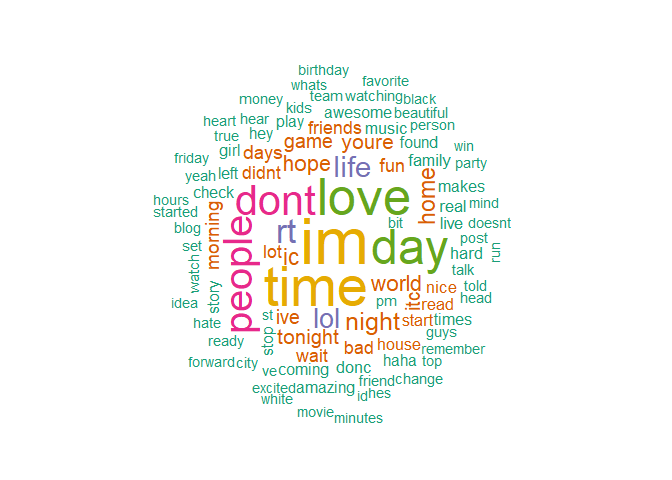
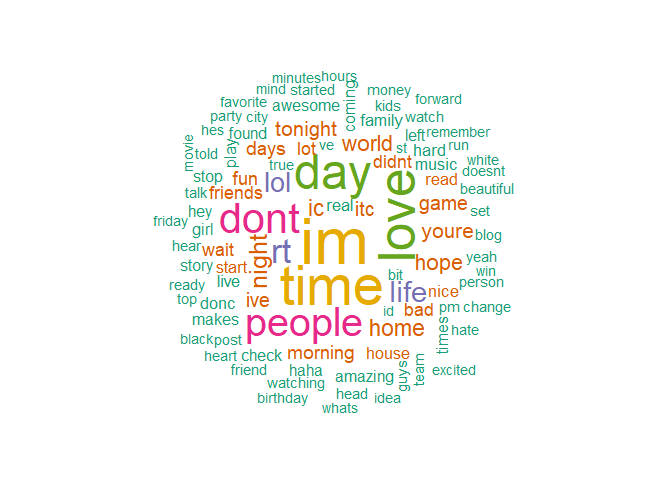
Larger fourgram sample

Changed region(s): [[0.2188, 0.125, 0.7812, 0.9062]]

diff --git a/02_Task_Script.md b/02_Task_Script.md
@@ -354,14 +354,14 @@ trigram_cover_90 <- trigram_repo %>%
 nrow(trigram_cover_90)
 ```
 
-    ## [1] 6602814
+    ## [1] 6602889
 
 trigram distribution
 
 ``` r
 trigram_cover_90 %>%
   #count(trigram, sort = TRUE) %>%
-  filter(n > 2000) %>%
+  filter(n > 1500) %>%
   mutate(trigram = reorder(trigram, n)) %>%
   ggplot(aes(trigram, n)) +
   geom_col() +
@@ -371,13 +371,70 @@ trigram_cover_90 %>%
 
 ![](02_Task_Script_files/figure-markdown_github-ascii_identifiers/unnamed-chunk-24-1.png)
 
+7. Fourgrams
+------------
+
+Create Trigrams by source using `unnest_tokens`
+
+``` r
+blogs_fourgrams <- clean_blogs  %>%
+  sample_n(., nrow(clean_blogs)*0.05) %>%
+  unnest_tokens(fourgram, text, token = "ngrams", n = 4)
+
+news_fourgrams <- clean_news  %>%
+  sample_n(., nrow(clean_news)*0.10) %>%
+  unnest_tokens(fourgram, text, token = "ngrams", n = 4)
+
+twitter_fourgrams <- clean_twitter  %>%
+  sample_n(., nrow(clean_twitter)*0.10) %>%
+  unnest_tokens(fourgram, text, token = "ngrams", n = 4)
+```
+
+Create tidy fourgram repository
+
+``` r
+fourgram_repo <- bind_rows(mutate(blogs_fourgrams, source = "blogs"),
+                          mutate(news_fourgrams,  source = "news"),
+                          mutate(twitter_fourgrams, source = "twitter"))
+fourgram_repo$source <- as.factor(fourgram_repo$source)
+```
+
+Number of fourgrams to attain 90% coverage of all fourgrams in repo
+
+``` r
+fourgram_cover_90 <- fourgram_repo %>%
+  count(fourgram) %>%  
+  mutate(proportion = n / sum(n)) %>%
+  arrange(desc(proportion)) %>%  
+  mutate(coverage = cumsum(proportion)) %>%
+  filter(coverage <= 0.9)
+nrow(fourgram_cover_90)
+```
+
+    ## [1] 3754614
+
+Fourgram distribution
+
+``` r
+fourgram_cover_90 %>%
+  #count(trigram, sort = TRUE) %>%
+  filter(n > 100) %>%
+  mutate(fourgram = reorder(fourgram, n)) %>%
+  ggplot(aes(fourgram, n)) +
+  geom_col() +
+  xlab(NULL) +
+  coord_flip()
+```
+
+![](02_Task_Script_files/figure-markdown_github-ascii_identifiers/unnamed-chunk-28-1.png)
+
 ``` r
 end <- Sys.time()
 
 (run_time <- end - start)
 ```
 
-    ## Time difference of 19.3694 mins
+    ## Time difference of 22.07607 mins
 
 ``` r
 ###############
